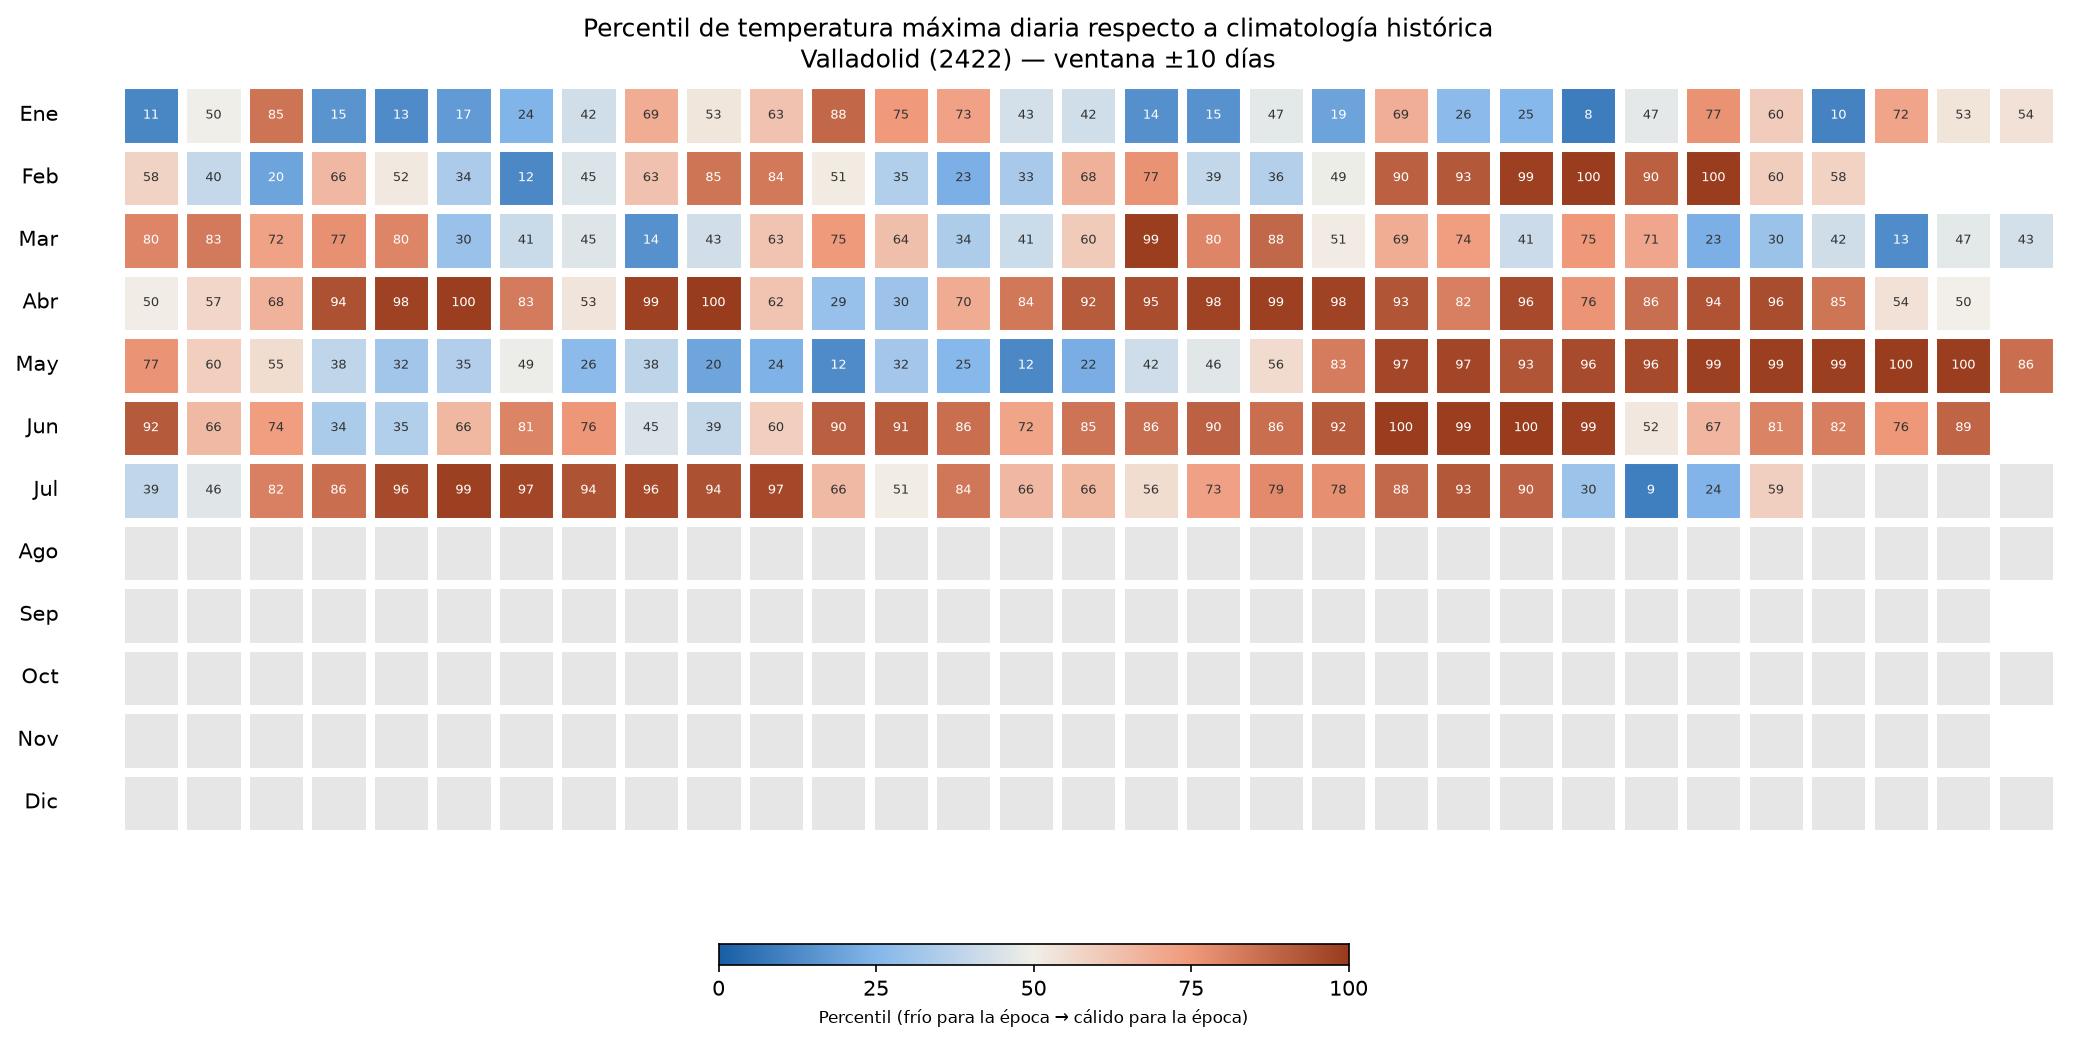
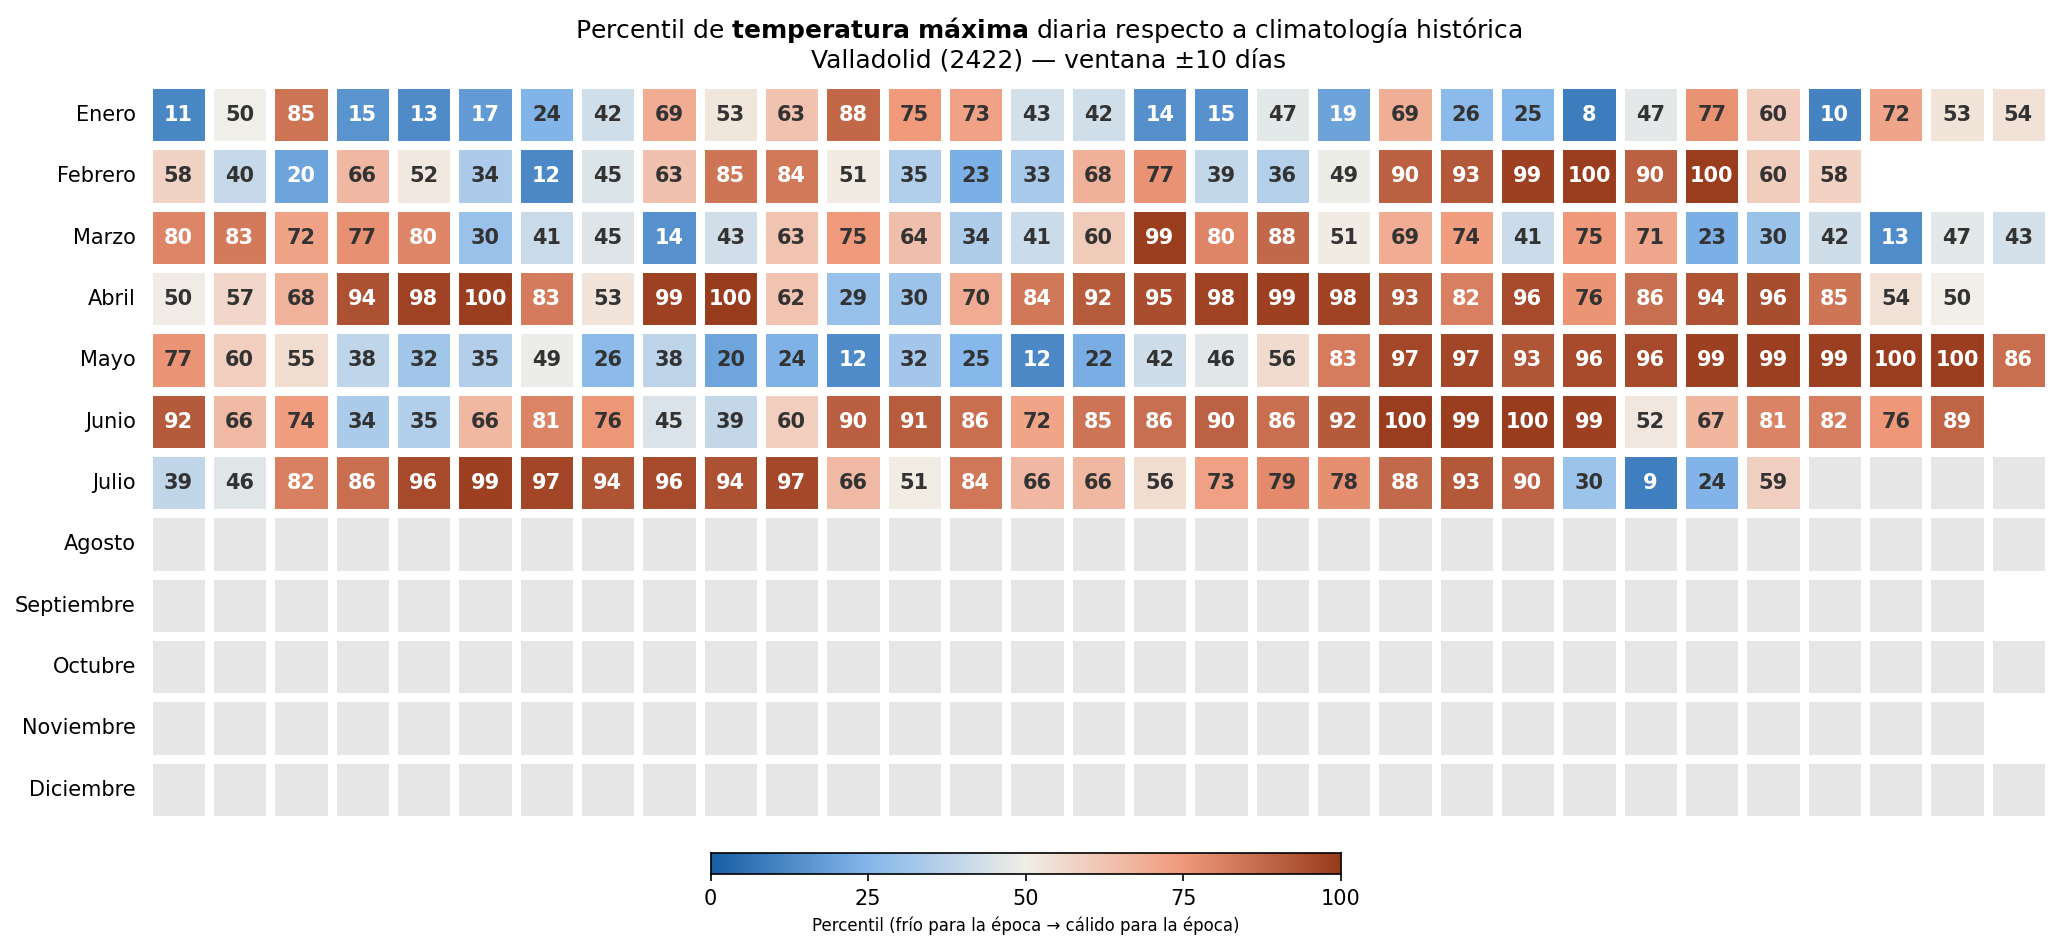
Mejoras visuales del calendario
Negrita, tamaño de números, posición de meses y leyenda.

diff --git a/calendario_percentiles.py b/calendario_percentiles.py
@@ -31,8 +31,8 @@ def color_por_percentil(p):
 
 
 def dibujar_calendario(percentiles_dia, nombre_estacion, idema, campo="tmax"):
-    meses = ["Ene", "Feb", "Mar", "Abr", "May", "Jun",
-             "Jul", "Ago", "Sep", "Oct", "Nov", "Dic"]
+    meses = ["Enero", "Febrero", "Marzo", "Abril", "Mayo", "Junio",
+             "Julio", "Agosto", "Septiembre", "Octubre", "Noviembre", "Diciembre"]
     dias_en_mes = [31, 28, 31, 30, 31, 30, 31, 31, 30, 31, 30, 31]
     etiqueta_campo = "máxima" if campo == "tmax" else "mínima"
 
@@ -59,22 +59,23 @@ def dibujar_calendario(percentiles_dia, nombre_estacion, idema, campo="tmax"):
             if texto:
                 color_texto = "white" if (p is not None and (p < 20 or p > 80)) else "#333333"
                 ax.text(x + lado / 2, y + lado / 2, texto, ha="center", va="center",
-                        fontsize=6, color=color_texto)
+                        fontsize=10, fontweight="bold", color=color_texto)
 
-        ax.text(-1.2, (11 - mes_idx) * (lado + hueco) + lado / 2, meses[mes_idx],
+        ax.text(-0.3, (11 - mes_idx) * (lado + hueco) + lado / 2, meses[mes_idx],
                 ha="right", va="center", fontsize=10)
 
     ax.set_xlim(-2, 31 * (lado + hueco))
     ax.set_ylim(-1, 12 * (lado + hueco))
     ax.set_aspect("equal")
     ax.axis("off")
-    ax.set_title(f"Percentil de temperatura {etiqueta_campo} diaria respecto a climatología histórica\n"
+    campo_bold = r"$\bf{temperatura\ " + etiqueta_campo + "}$"
+    ax.set_title(f"Percentil de {campo_bold} diaria respecto a climatología histórica\n"
                  f"{nombre_estacion} ({idema}) — ventana ±{VENTANA_DIAS} días",
                  fontsize=12)
 
     grad = np.linspace(0, 100, 256)
     colores = np.array([color_por_percentil(p) for p in grad])
-    cax = fig.add_axes([0.35, 0.04, 0.3, 0.02])
+    cax = fig.add_axes([0.35, 0.12, 0.3, 0.02])
     cax.imshow(colores.reshape(1, -1, 3), aspect="auto", extent=[0, 100, 0, 1])
     cax.set_yticks([])
     cax.set_xticks([0, 25, 50, 75, 100])
